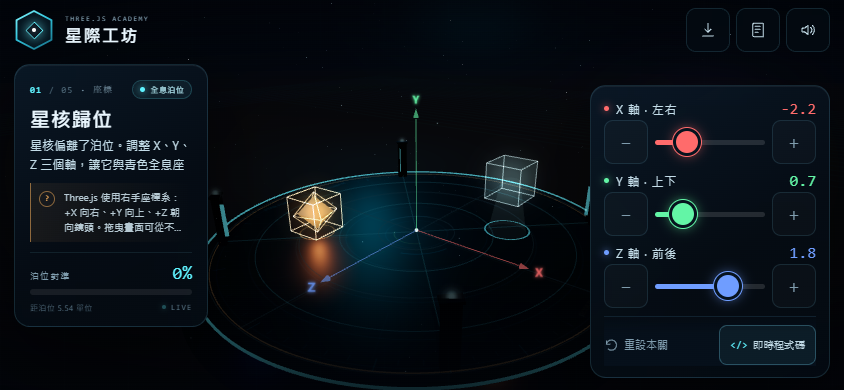
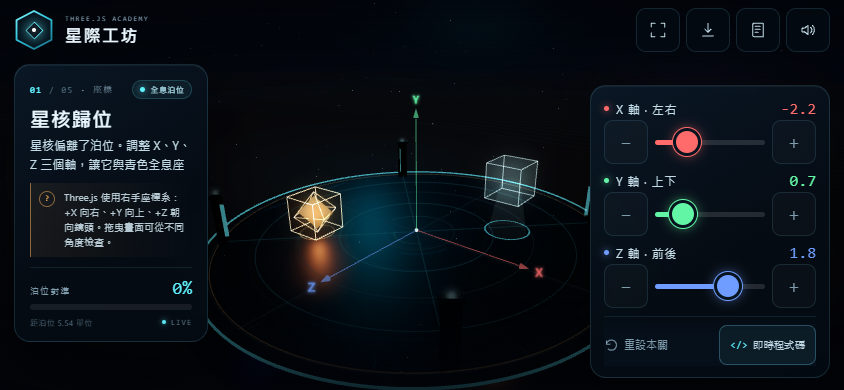
feat: add fullscreen mode and short viewport layout

diff --git a/src/main.js b/src/main.js
@@ -53,6 +53,7 @@ const refs = {
   closeCode: $('closeCode'),
   codeToggle: $('codeToggle'),
   codeBackdrop: $('codeBackdrop'),
+  fullscreenBtn: $('fullscreenBtn'),
   installBtn: $('installBtn'),
   installIntroBtn: $('installIntroBtn'),
   orientationLock: $('orientationLock'),
@@ -117,7 +118,10 @@ const reducedMotion = window.matchMedia('(prefers-reduced-motion: reduce)');
 const coarsePointer = window.matchMedia('(any-pointer: coarse)');
 const isTouchDevice = coarsePointer.matches || navigator.maxTouchPoints > 1;
 const isStandalone =
-  window.matchMedia('(display-mode: standalone)').matches || navigator.standalone === true;
+  window.matchMedia('(display-mode: standalone)').matches ||
+  window.matchMedia('(display-mode: fullscreen)').matches ||
+  window.matchMedia('(display-mode: minimal-ui)').matches ||
+  navigator.standalone === true;
 const isIOS =
   /iphone|ipad|ipod/i.test(navigator.userAgent) ||
   (navigator.platform === 'MacIntel' && navigator.maxTouchPoints > 1);
@@ -172,6 +176,59 @@ function haptic(pattern = 8) {
 function setInstallAvailable(available) {
   game.installAvailable = available;
   document.body.classList.toggle('can-install', available && !isStandalone);
+}
+
+function fullscreenElement() {
+  return document.fullscreenElement || document.webkitFullscreenElement || null;
+}
+
+function syncFullscreenButton() {
+  if (!refs.fullscreenBtn) return;
+  const active = Boolean(fullscreenElement());
+  refs.fullscreenBtn.classList.toggle('is-active', active);
+  refs.fullscreenBtn.setAttribute('aria-label', active ? '離開全螢幕' : '進入全螢幕');
+  const label = refs.fullscreenBtn.querySelector('span');
+  if (label) label.textContent = active ? '退出' : '全螢幕';
+}
+
+function showFullscreenHelp() {
+  if (isIOS) {
+    toast('Safari 分頁無法強制全螢幕。請「分享 → 加入主畫面」，從主畫面啟動即可全螢幕。', 7000, true);
+  } else {
+    toast('此瀏覽器不支援網頁全螢幕；可將遊戲安裝到主畫面。', 6000, true);
+  }
+}
+
+async function toggleFullscreen() {
+  audio.click();
+  haptic(8);
+  if (fullscreenElement()) {
+    try {
+      const exit = document.exitFullscreen || document.webkitExitFullscreen;
+      if (exit) await exit.call(document);
+    } catch (error) {
+      // Ignore exit failures.
+    }
+    syncFullscreenButton();
+    return;
+  }
+
+  const element = document.documentElement;
+  const request = element.requestFullscreen || element.webkitRequestFullscreen;
+  if (!request) {
+    showFullscreenHelp();
+    return;
+  }
+
+  try {
+    await request.call(element);
+    if (screen.orientation && typeof screen.orientation.lock === 'function') {
+      screen.orientation.lock('landscape').catch(() => {});
+    }
+    syncFullscreenButton();
+  } catch (error) {
+    showFullscreenHelp();
+  }
 }
 
 function updateViewportMode() {
@@ -940,12 +997,22 @@ function bindEvents() {
   });
   refs.closeCode.addEventListener('click', closeCodePanel);
   refs.codeBackdrop.addEventListener('click', () => closeCodePanel());
+  refs.fullscreenBtn.addEventListener('click', toggleFullscreen);
   refs.installBtn.addEventListener('click', installApp);
   refs.installIntroBtn.addEventListener('click', installApp);
   refs.nextLevelBtn.addEventListener('click', goToNextLevel);
   refs.exploreBtn.addEventListener('click', exploreFinale);
   refs.restartBtn.addEventListener('click', restartGame);
   refs.finaleRestart.addEventListener('click', restartGame);
+
+  document.addEventListener('fullscreenchange', () => {
+    syncFullscreenButton();
+    updateViewportMode();
+  });
+  document.addEventListener('webkitfullscreenchange', () => {
+    syncFullscreenButton();
+    updateViewportMode();
+  });
 
   window.addEventListener('resize', updateViewportMode);
   window.addEventListener('orientationchange', () => {
@@ -1056,6 +1123,7 @@ function init() {
   bindEvents();
   setupPWA();
   updateViewportMode();
+  syncFullscreenButton();
 
   if (!world) return;
   levelRoot = new THREE.Group();

diff --git a/style.css b/style.css
@@ -2660,6 +2660,16 @@ body.is-standalone .install-intro {
   display: none !important;
 }
 
+body.is-standalone .fullscreen-btn {
+  display: none !important;
+}
+
+.fullscreen-btn.is-active {
+  border-color: rgba(95, 243, 255, 0.38);
+  color: var(--cyan);
+  background: rgba(95, 243, 255, 0.07);
+}
+
 .code-backdrop {
   display: none;
 }
@@ -2819,6 +2829,10 @@ body.is-standalone .install-intro {
     touch-action: manipulation;
   }
 
+  .icon-btn span {
+    display: none;
+  }
+
   .icon-btn svg {
     width: 18px;
     height: 18px;
@@ -2895,7 +2909,7 @@ body.is-standalone .install-intro {
     font-size: 10px;
     line-height: 1.5;
     -webkit-box-orient: vertical;
-    -webkit-line-clamp: 3;
+    -webkit-line-clamp: 4;
   }
 
   .meter-block {
@@ -3497,6 +3511,196 @@ body.is-standalone .install-intro {
   .intro-visual,
   .finale-visual {
     min-height: 220px;
+  }
+}
+
+@media (any-pointer: coarse) and (orientation: landscape) and (max-height: 380px) {
+  .topbar {
+    padding-top: max(6px, env(safe-area-inset-top));
+    padding-bottom: 6px;
+  }
+
+  .brand-mark {
+    width: 34px;
+    height: 34px;
+  }
+
+  .brand-copy strong {
+    font-size: 15px;
+  }
+
+  .brand-kicker {
+    font-size: 6.5px;
+  }
+
+  .top-actions {
+    gap: 5px;
+  }
+
+  .icon-btn {
+    min-width: 40px;
+    height: 40px;
+    padding: 0 8px;
+  }
+
+  .icon-btn svg {
+    width: 17px;
+    height: 17px;
+  }
+
+  .mission {
+    top: calc(env(safe-area-inset-top) + 54px);
+    max-height: calc(100dvh - 62px);
+    padding: 10px 11px 9px;
+  }
+
+  .mission-top {
+    gap: 4px;
+    margin-bottom: 5px;
+  }
+
+  .mission .eyebrow {
+    font-size: 7.5px;
+  }
+
+  .target-badge {
+    padding: 2px 6px;
+    font-size: 7.5px;
+  }
+
+  .mission h1 {
+    margin-bottom: 3px;
+    font-size: 18px;
+  }
+
+  .mission-objective {
+    font-size: 10.5px;
+    line-height: 1.4;
+    -webkit-line-clamp: 2;
+  }
+
+  .hint-box {
+    display: none;
+  }
+
+  .meter-block {
+    padding-top: 6px;
+  }
+
+  .meter-label {
+    margin-bottom: 4px;
+  }
+
+  .meter-label span {
+    font-size: 8px;
+  }
+
+  .meter-label strong {
+    font-size: 15px;
+  }
+
+  .meter {
+    height: 5px;
+  }
+
+  .meter-foot {
+    display: none;
+  }
+
+  .console {
+    bottom: calc(env(safe-area-inset-bottom) + 8px);
+    max-height: calc(100dvh - 62px);
+    padding: 8px 9px 7px;
+  }
+
+  .console-head {
+    display: none;
+  }
+
+  .sliders {
+    gap: 3px;
+  }
+
+  .slider-head {
+    margin-bottom: 0;
+  }
+
+  .axis-label {
+    font-size: 10.5px;
+  }
+
+  .slider-value {
+    font-size: 13px;
+  }
+
+  .slider-value b {
+    font-size: 14px;
+  }
+
+  .slider-control {
+    grid-template-columns: 40px 1fr 40px;
+    gap: 5px;
+  }
+
+  .nudge {
+    width: 40px;
+    height: 40px;
+    border-radius: 8px;
+    font-size: 16px;
+  }
+
+  input[type="range"] {
+    height: 30px;
+  }
+
+  input[type="range"]::-webkit-slider-thumb {
+    width: 24px;
+    height: 24px;
+    margin-top: -10px;
+  }
+
+  input[type="range"]::-moz-range-thumb {
+    width: 22px;
+    height: 22px;
+  }
+
+  .console-foot {
+    margin-top: 4px;
+    padding-top: 5px;
+    padding-bottom: 0;
+  }
+
+  .console-foot .text-btn {
+    min-height: 36px;
+    font-size: 9.5px;
+  }
+
+  .console-foot .text-btn svg {
+    width: 13px;
+    height: 13px;
+  }
+
+  .code-toggle {
+    min-height: 36px;
+    padding: 6px 8px;
+    font-size: 9px;
+  }
+
+  .toast {
+    bottom: calc(env(safe-area-inset-bottom) + 10px);
+  }
+
+  .mission-extra .extra-box {
+    padding: 6px;
+  }
+
+  .mission-extra .swatch {
+    height: 26px;
+  }
+
+  .mission-extra .swatch-label {
+    margin-bottom: 2px;
+    font-size: 7.5px;
   }
 }
 

diff --git a/index.html b/index.html
@@ -34,6 +34,10 @@
       <ol class="progress" id="progress" aria-label="修復進度"></ol>
 
       <div class="top-actions">
+        <button class="icon-btn fullscreen-btn" id="fullscreenBtn" type="button" aria-label="進入全螢幕">
+          <svg viewBox="0 0 24 24" aria-hidden="true"><path d="M8 3H3v5M16 3h5v5M8 21H3v-5M21 16v5h-5"/></svg>
+          <span>全螢幕</span>
+        </button>
         <button class="icon-btn install-btn" id="installBtn" type="button" aria-label="安裝到主畫面">
           <svg viewBox="0 0 24 24" aria-hidden="true"><path d="M12 3v12M8 11l4 4 4-4M5 20h14"/></svg>
           <span>安裝</span>

diff --git a/sw.js b/sw.js
@@ -1,4 +1,4 @@
-const CACHE_VERSION = 'starforge-v1';
+const CACHE_VERSION = 'starforge-v2';
 const BASE = new URL('./', self.location.href);
 const APP_SHELL = [
   '',

diff --git a/README.md b/README.md
@@ -34,6 +34,12 @@
 - 直向：顯示「請轉為橫向」遮罩，避免把橫向遊戲硬塞進窄版。
 - 桌面版仍保留原本的完整介面。
 
+### 全螢幕
+
+- 點右上角的**四角圖示**可進入／離開全螢幕（支援 Fullscreen API 的瀏覽器）。
+- Safari 分頁的網址列與分頁列會佔用高度，網頁本身無法移除；若全螢幕 API 不可用，請用 **分享 → 加入主畫面**，從主畫面啟動就是真正的全螢幕 App 視窗。
+- 已加入短視窗自適應：即使 Safari 工具列還在，任務卡、三個滑桿與底部按鈕也會完整顯示，不再被裁切。
+
 ![iPad 橫向遊戲畫面](preview-ipad.png)
 
 ## 五個關卡
@@ -53,6 +59,7 @@
 - 拖曳 3D 場景：環視
 - 雙指／滾輪：遠近縮放
 - 大型滑桿與 `+` / `−`：調整數值
+- 右上角四角圖示：全螢幕
 - 程式碼按鈕：全螢幕程式碼面板
 - 完成關卡後：閱讀概念說明，前往下一關
 - 支援震動回饋（Android 等支援 Vibration API 的裝置）
@@ -79,6 +86,7 @@ python -m http.server 8137
 - 原生 ES Modules，無打包工具
 - PWA：manifest、192／512 圖示、Service Worker、離線 shell
 - 觸控優先 HUD：44px 觸控目標、安全區、橫向鎖定提示
+- 短視窗自適應與 Fullscreen API
 - WebGL 即時陰影、PMREM 環境反射、程序化星空與平台材質
 - Web Audio API 即時合成音效
 - 繁體中文、手機／iPad／桌面自適應
